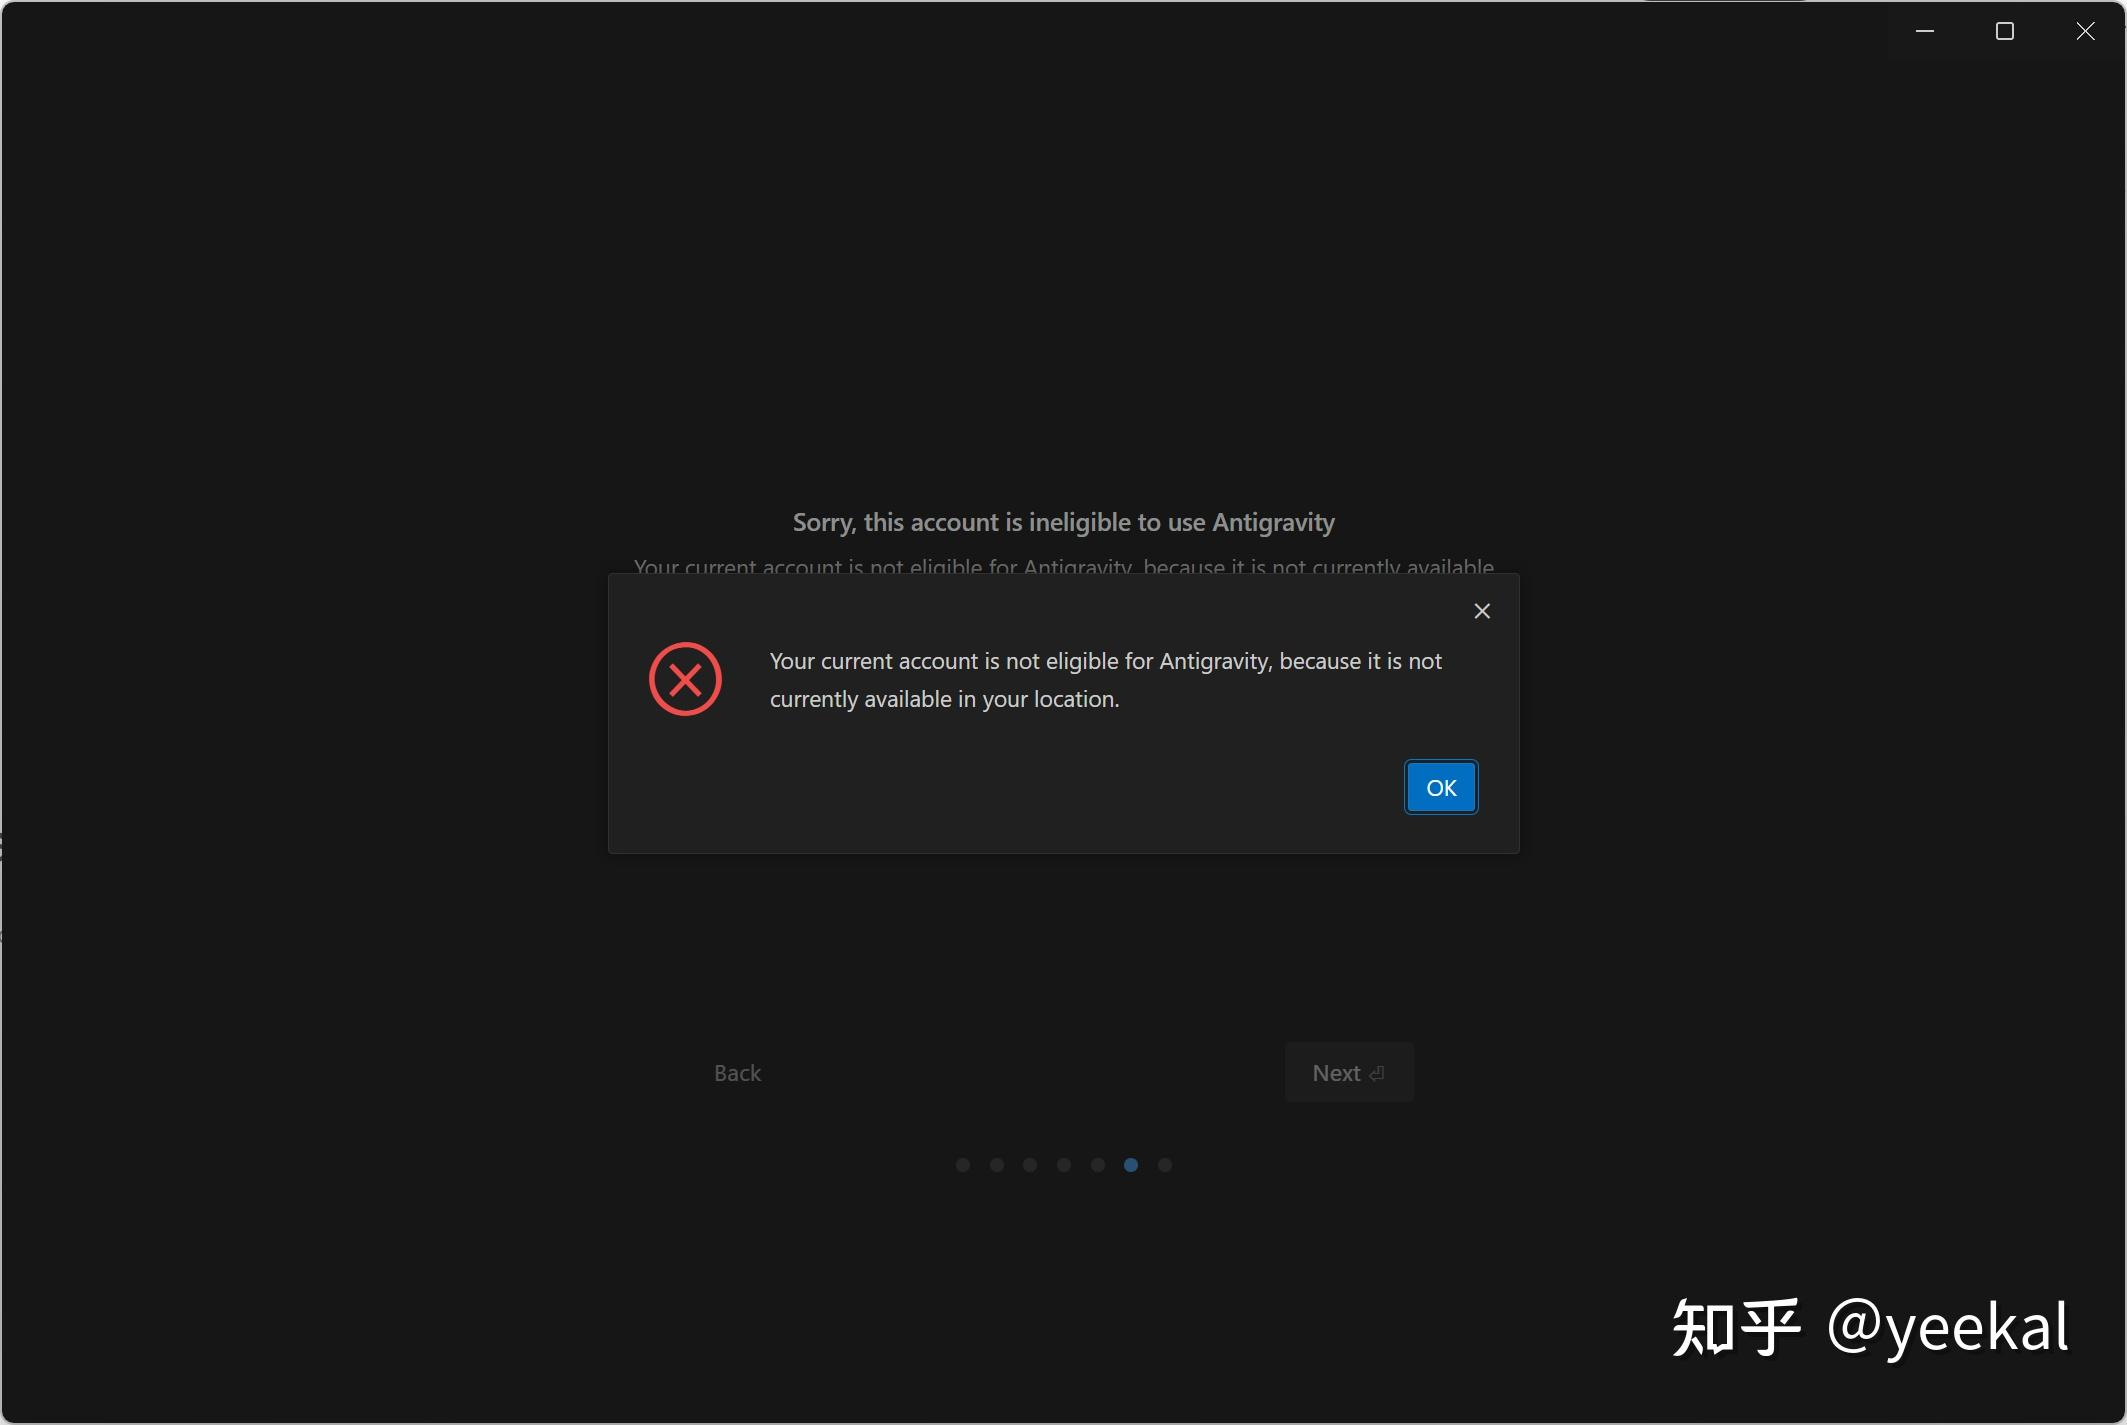
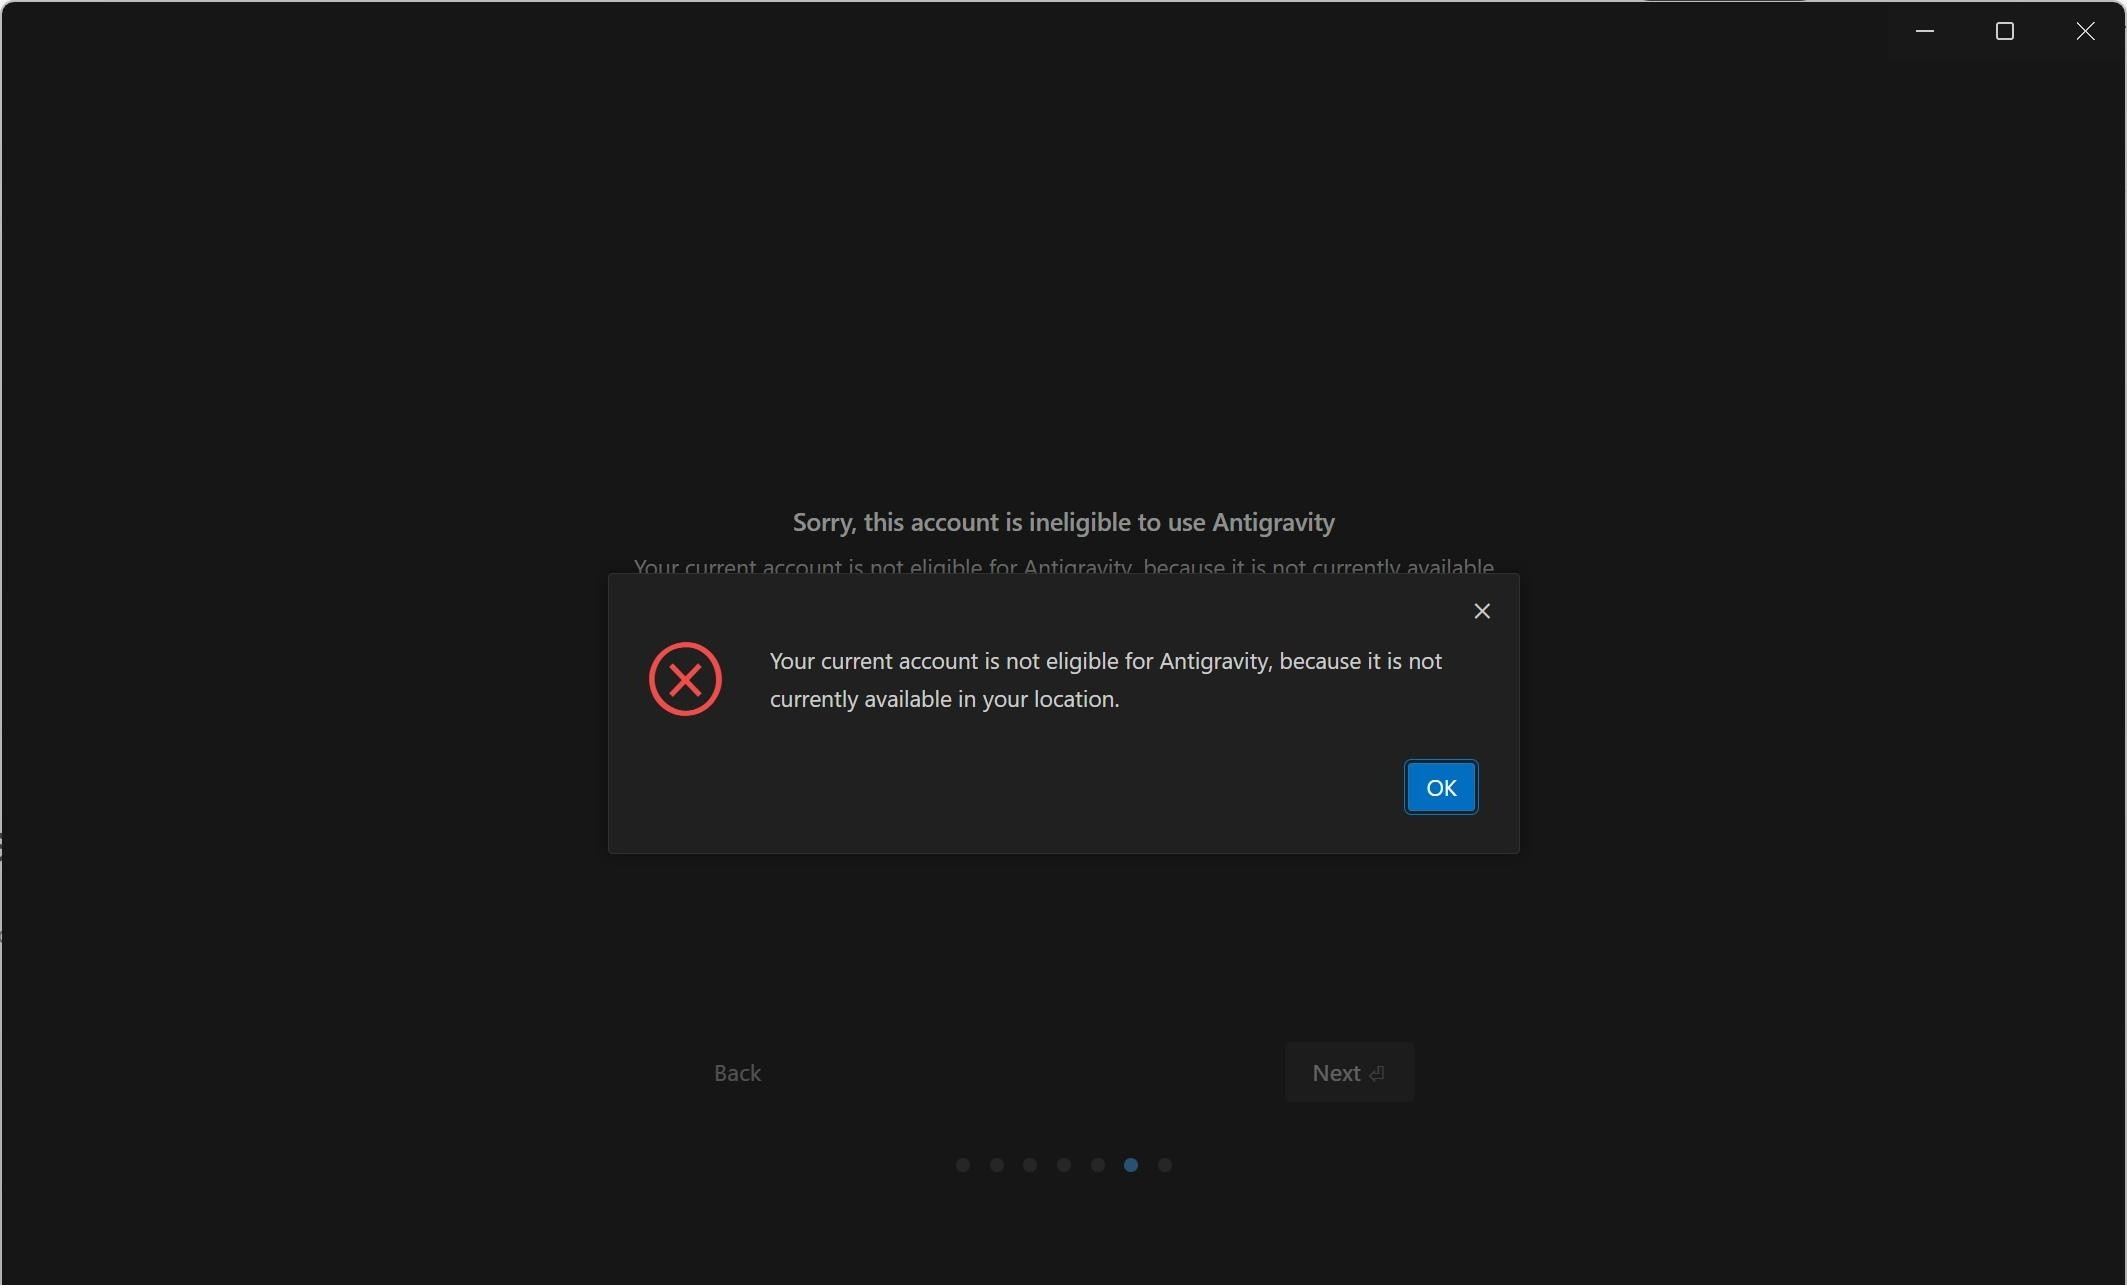
Remove v2ray image and crop Zhihu watermarks from all post images

diff --git a/src/content/posts/2026/10/01/google-antigravity-login-guide.md b/src/content/posts/2026/10/01/google-antigravity-login-guide.md
@@ -1,7 +1,7 @@
 ---
 title: "Google Antigravity 完整登录与排坑保姆级指南：搞定账号改区与二次验证（Verify）难题"
 published: 2026-10-01T18:18:00+08:00
-updated: 2026-10-01T18:50:00+08:00
+updated: 2026-10-01T19:05:00+08:00
 description: "系统梳理 Google Antigravity 登录全流程，先解决底层账号区域限制（改区申诉），再通过 Cloud Shell Web 端接码彻底搞定账号级 Verify 二次验证与扫码报错死循环。"
 image: "/uploads/2026/10/antigravity/antigravity-cover.jpg"
 tags: ["Antigravity", "Gemini", "Google", "AI 编程", "故障排查"]
@@ -55,8 +55,6 @@ Google Antigravity 作为新一代强大的 AI 辅助编程与自动化开发工
 - 参考站内文章 [《DNS 泄漏与分流配置指南》](/2026/08/16/dnsleak/) 避免境内外 DNS 串流导致的真实物理地域泄露；
 - 搭配 GitHub 开源规则脚本 [mihomo-global-override](https://github.com/yyzmiao/mihomo-global-override) 实现全自动化的规则分流与全局覆写，在底层彻底消除 IP 泄露风险；
 - 确保你的网络工具开启了系统级全局（TUN 模式）。
-
-![网络代理与TUN模式设置](/uploads/2026/10/antigravity/02-network-tun-setting.jpg)
 
 ### 优选非黑名单的原生美区（US）节点
 
